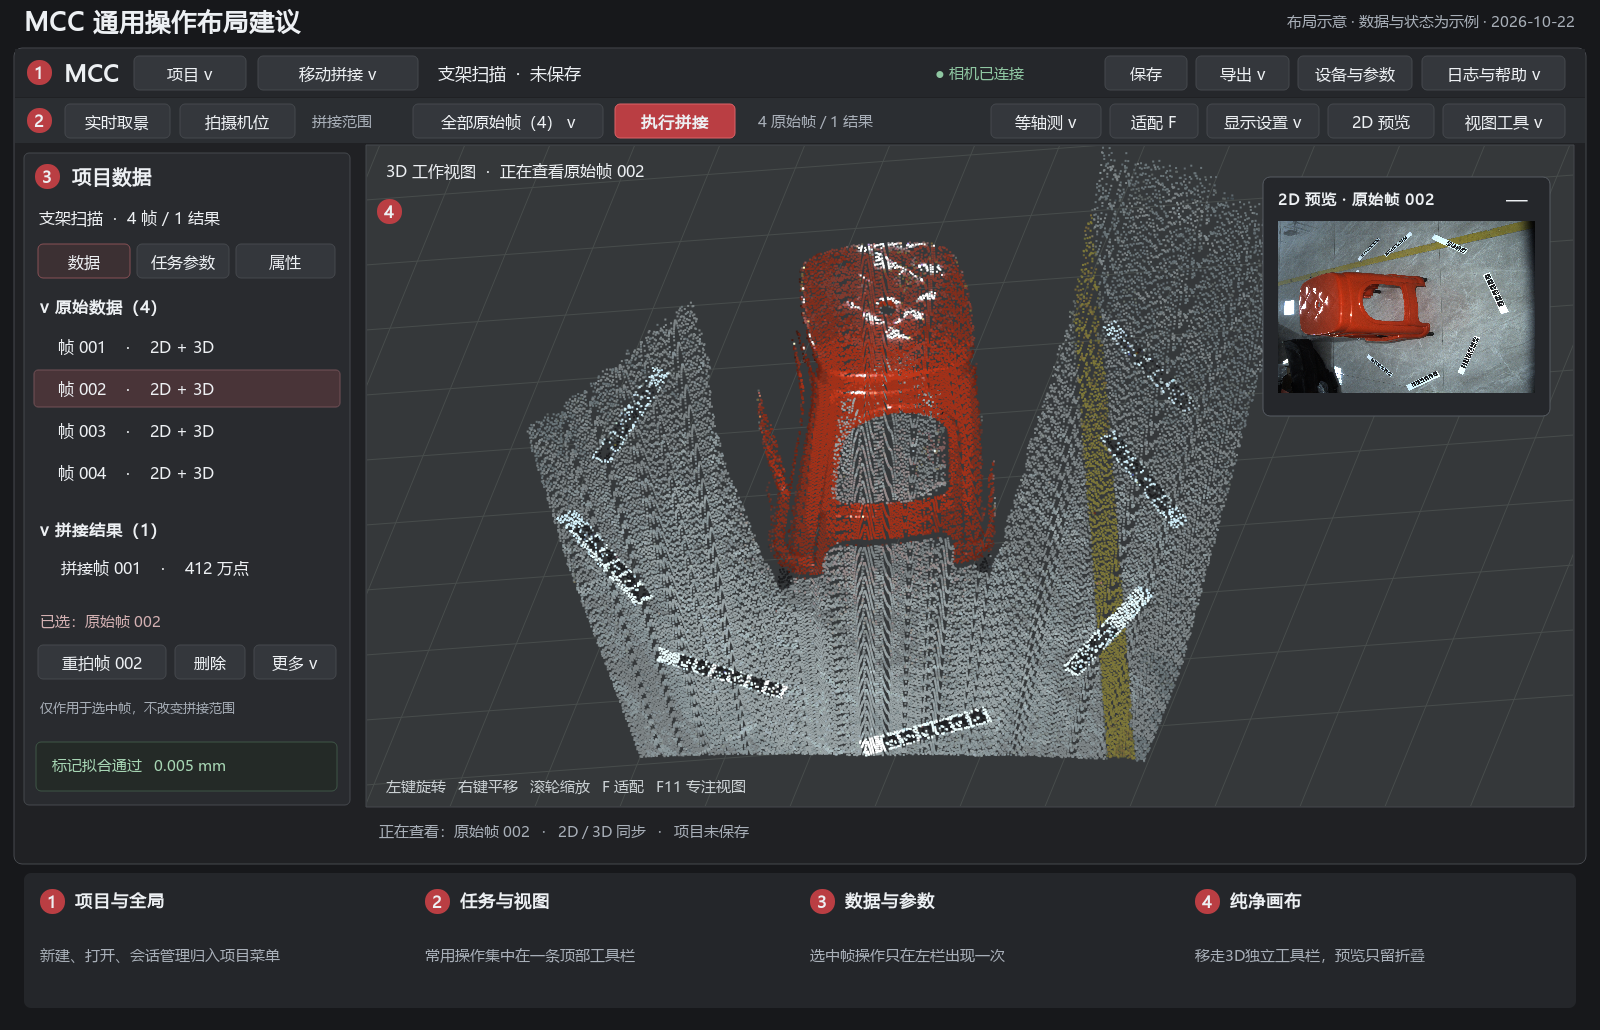
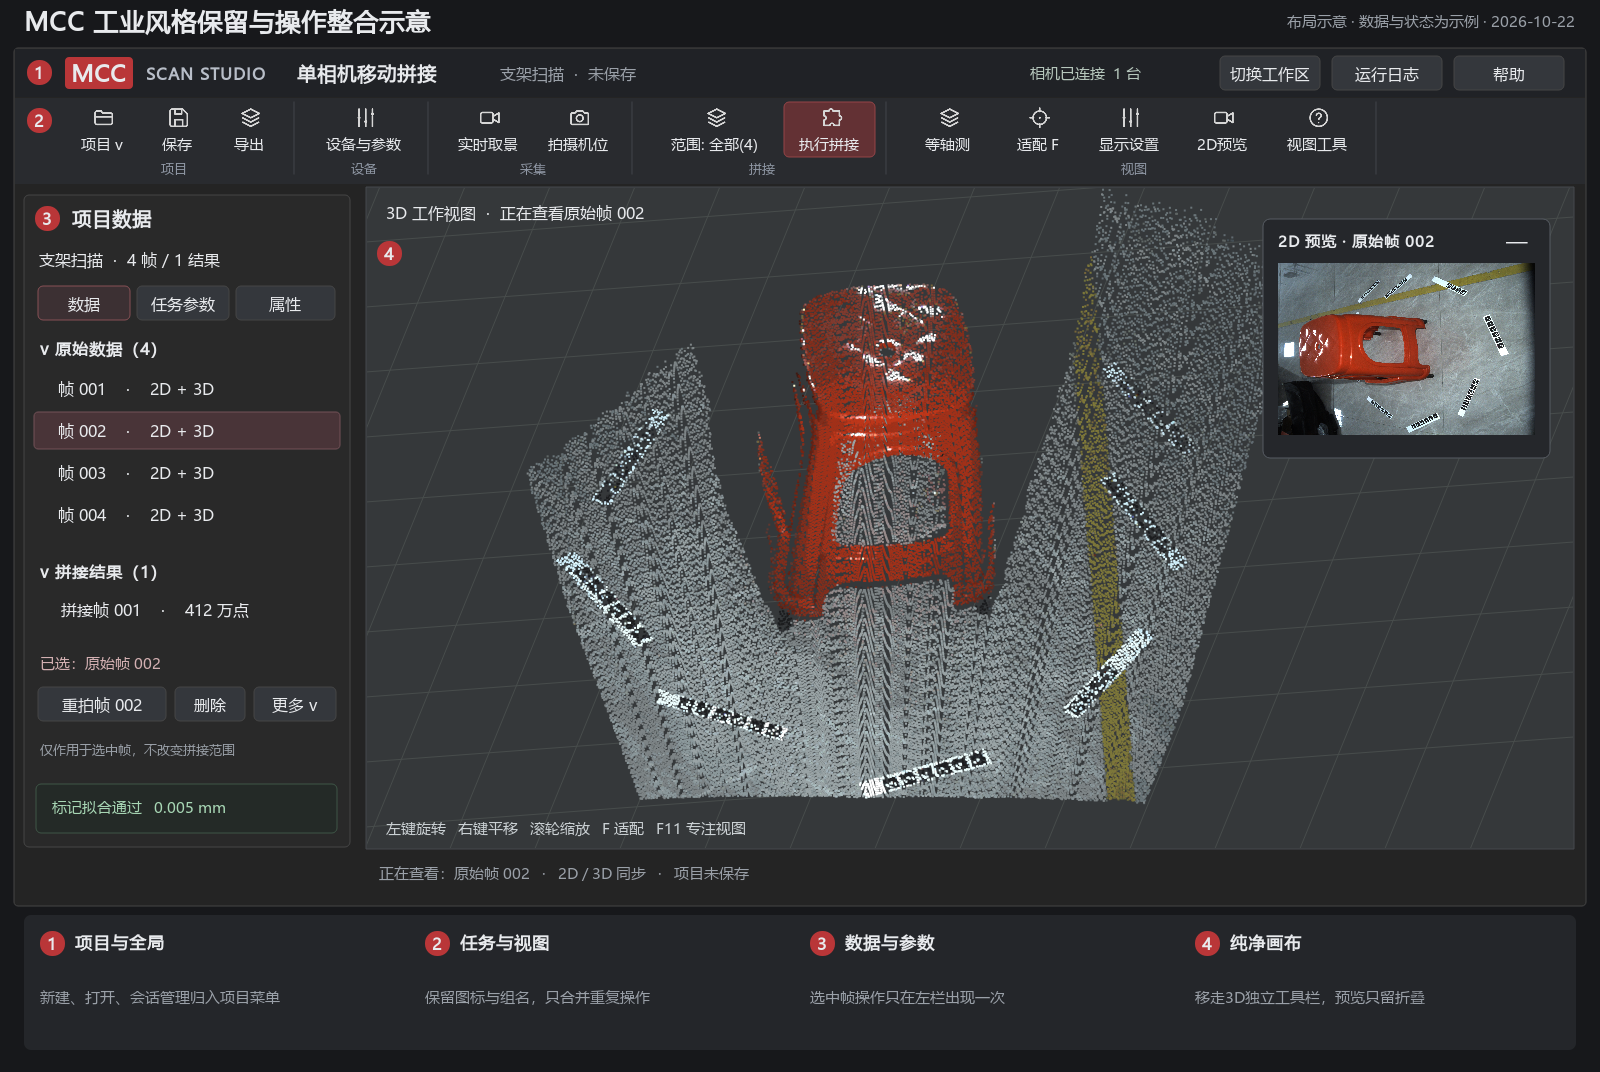
docs: retain existing industrial ribbon styling in UI proposal

diff --git a/docs/ui_review/20261022-ui-simplification/build_diagrams.py b/docs/ui_review/20261022-ui-simplification/build_diagrams.py
@@ -1,5 +1,6 @@
 """Render proposal diagrams only. Does not launch or modify production UI."""
 import os
+import sys
 from pathlib import Path
 
 os.environ.setdefault('QT_QPA_PLATFORM', 'offscreen')
@@ -10,9 +11,11 @@ from PySide6.QtWidgets import QApplication
 
 OUT = Path(__file__).resolve().parent
 PROJECT = OUT.parents[2]
+sys.path.insert(0, str(PROJECT / 'src'))
+from ui_v2 import icons
 app = QApplication.instance() or QApplication([])
 QFontDatabase.addApplicationFont('C:/Windows/Fonts/msyh.ttc')
-BG, PANEL, BORDER, TEXT, MUTED, RED = '#202124', '#292b2f', '#45484d', '#edf0f3', '#a8afb8', '#ba3e43'
+BG, PANEL, BORDER, TEXT, MUTED, RED = '#242424', '#292929', '#454545', '#e8eaed', '#9aa0a8', '#b93638'
 
 
 def box(p, x, y, w, h, color=PANEL, border=BORDER, radius=6):
@@ -72,32 +75,49 @@ def cloud(p):
     text(p, 386, 774, 900, 24, '左键旋转   右键平移   滚轮缩放   F 适配   F11 专注视图', 11, '#cad0d3')
 
 
+def ribbon_group(p, x, y, caption, entries):
+    begin = x
+    for label, glyph, width in entries:
+        primary = label in ('执行拼接', '计算外参', '计算转轴')
+        if primary:
+            box(p, x, y, width-4, 55, '#633134', '#954447', 5)
+        icon = icons.pixmap(glyph, '#d6d6d6', 23)
+        p.drawPixmap(int(x+(width-23)/2), int(y+4), icon)
+        text(p, x, y+30, width-4, 23, label, 11, align=Qt.AlignCenter)
+        x += width
+    text(p, begin, y+57, x-begin-4, 19, caption, 10, '#8f97a4', align=Qt.AlignCenter)
+    p.setPen(QPen(QColor('#41444a'),1))
+    p.drawLine(QPointF(x+7,y),QPointF(x+7,y+72))
+    return x+24
+
+
 def overview():
-    image = QImage(1600, 1030, QImage.Format_ARGB32)
+    image = QImage(1600, 1072, QImage.Format_ARGB32)
     image.fill(QColor('#17181b'))
     p=QPainter(image);p.setRenderHint(QPainter.Antialiasing)
-    text(p, 24, 4, 1050, 34, 'MCC 通用操作布局建议', 19, bold=True)
+    text(p, 24, 4, 1050, 34, 'MCC 工业风格保留与操作整合示意', 19, bold=True)
     text(p, 1070, 4, 505, 34, '布局示意 · 数据与状态为示例 · 2026-10-22', 11, MUTED, align=Qt.AlignRight|Qt.AlignVCenter)
-    box(p, 14, 48, 1572, 816, BG, BORDER, 8)
-    box(p, 15, 49, 1570, 48, '#25272b', None, 0)
+    box(p, 14, 48, 1572, 858, BG, BORDER, 4)
+    box(p, 15, 49, 1570, 48, '#202226', None, 0)
     badge(p, 27, 60, 1)
-    text(p, 64, 56, 62, 33, 'MCC', 17, bold=True)
-    button(p, 134, 56, 112, '项目 ▾')
-    button(p, 258, 56, 160, '移动拼接 ▾')
-    text(p, 438, 56, 480, 34, '支架扫描  ·  未保存', 13)
-    text(p, 935, 56, 155, 34, '● 相机已连接', 11, '#8fc7a2')
-    for x,w,label in ((1105,82,'保存'),(1196,93,'导出 ▾'),(1298,114,'设备与参数'),(1422,143,'日志与帮助 ▾')):
-        button(p,x,56,w,label)
-    box(p, 15, 98, 1570, 45, '#2b2e32', None, 0)
+    box(p, 65, 57, 68, 32, '#b93638', None, 4)
+    text(p, 65, 57, 68, 32, 'MCC', 17, bold=True, align=Qt.AlignCenter)
+    text(p, 146, 56, 133, 34, 'SCAN STUDIO', 12, '#b8bec8', True)
+    text(p, 297, 56, 180, 34, '单相机移动拼接', 14, bold=True)
+    text(p, 500, 56, 405, 34, '支架扫描  ·  未保存', 12, MUTED)
+    text(p, 1030, 56, 160, 34, '相机已连接  1 台', 11, '#b6c7bc')
+    button(p, 1220, 56, 100, '切换工作区')
+    button(p, 1332, 56, 110, '运行日志')
+    button(p, 1454, 56, 110, '帮助')
+    box(p, 15, 98, 1570, 86, '#292b2f', None, 0)
     badge(p,27,108,2)
-    button(p, 65,104,105,'实时取景')
-    button(p,180,104,115,'拍摄机位')
-    text(p,312,104,105,34,'拼接范围',11,MUTED)
-    button(p,413,104,190,'全部原始帧（4） ▾')
-    button(p,615,104,120,'执行拼接',primary=True)
-    text(p,758,104,175,34,'4 原始帧 / 1 结果',11,MUTED)
-    for x,w,label in ((991,110,'等轴测 ▾'),(1110,88,'适配 F'),(1207,112,'显示设置 ▾'),(1328,106,'2D 预览'),(1443,122,'视图工具 ▾')):
-        button(p,x,104,w,label)
+    x=ribbon_group(p,65,102,'项目',[('项目 v','folder_open',78),('保存','save',72),('导出','layers',72)])
+    x=ribbon_group(p,x,102,'设备',[('设备与参数','sliders',110)])
+    x=ribbon_group(p,x,102,'采集',[('实时取景','video',90),('拍摄机位','camera',90)])
+    x=ribbon_group(p,x,102,'拼接',[('范围: 全部(4)','layers',135),('执行拼接','stitch',95)])
+    ribbon_group(p,x,102,'视图',[('等轴测','layers',94),('适配 F','reset_view',86),('显示设置','sliders',96),('2D预览','video',90),('视图工具','help',100)])
+    p.save()
+    p.translate(0,42)
     box(p, 24,153,326,652,PANEL,BORDER,5)
     badge(p,35,164,3)
     text(p,72,161,235,31,'项目数据',14,bold=True)
@@ -130,18 +150,19 @@ def overview():
     if not source.isNull():p.drawImage(QRectF(1278,221,257,172),source)
     text(p,379,816,1080,30,'正在查看：原始帧 002   ·   2D / 3D 同步   ·   项目未保存',11,MUTED)
     box(p,24,873,1552,135,'#24262a',None,7)
-    items=[(1,'项目与全局','新建、打开、会话管理归入项目菜单'),(2,'任务与视图','常用操作集中在一条顶部工具栏'),(3,'数据与参数','选中帧操作只在左栏出现一次'),(4,'纯净画布','移走3D独立工具栏，预览只留折叠')]
+    items=[(1,'项目与全局','新建、打开、会话管理归入项目菜单'),(2,'任务与视图','保留图标与组名，只合并重复操作'),(3,'数据与参数','选中帧操作只在左栏出现一次'),(4,'纯净画布','移走3D独立工具栏，预览只留折叠')]
     for index,(number,title,detail) in enumerate(items):
         x=40+index*385;badge(p,x,889,number)
         text(p,x+35,884,326,31,title,13,bold=True)
         text(p,x,931,365,47,detail,11,MUTED)
+    p.restore()
     p.end();assert image.save(str(OUT/'layout-overview.png'))
 
 
 def modes():
     image=QImage(1600,470,QImage.Format_ARGB32);image.fill(QColor('#1b1d20'))
     p=QPainter(image);p.setRenderHint(QPainter.Antialiasing)
-    text(p,25,12,1500,38,'三个模式保持相同布局，只替换任务区内容',19,bold=True)
+    text(p,25,12,1500,38,'保留原工业功能区样式，只替换各模式任务组',19,bold=True)
     specs=[('多相机标定','拍摄标定帧','检测标记','计算外参','参考相机 / 标记类型 / 标定结果'),
            ('移动拼接','实时取景','拍摄机位','执行拼接','拼接范围 / 选中帧重拍与删除'),
            ('转台拼接','拍摄基准帧','拍摄旋转帧','计算转轴','转角 / 步长 / 步数 / 轴心参数')]
@@ -150,9 +171,9 @@ def modes():
         box(p,24,y,1550,102,PANEL,BORDER,6)
         text(p,43,y+12,180,37,name,14,bold=True)
         for j,label in enumerate((a,b,c)):
-            button(p,235+j*155,y+12,142,label,primary=j==2)
+            ribbon_group(p,235+j*155,y+7,'',[(label,('video' if '取景' in label else 'stitch' if j==2 else 'camera'),142)])
         text(p,735,y+12,780,37,'共用视图区：视角 / 适配 / 显示设置 / 2D / 视图工具',12,MUTED)
-        text(p,236,y+57,1240,31,'左栏任务参数：'+detail,11,MUTED)
+        text(p,236,y+69,1240,24,'左栏任务参数：'+detail,11,MUTED)
     text(p,25,432,1540,25,'注：多相机与转台的工具条随“标定 / 扫描”阶段切换；未满足条件时给出禁用原因。',11,MUTED)
     p.end();assert image.save(str(OUT/'mode-task-bars.png'))
 

diff --git a/docs/UI通用操作整合与简化建议_20261022.md b/docs/UI通用操作整合与简化建议_20261022.md
@@ -2,7 +2,17 @@
 
 日期：2026-10-22。核对基线：`MultiCameraCalibration` 分支、提交 `7b7b03c`、版本 `1.12.39`，以及当前工作区代码。本文件是设计建议，不表示正式 UI 已修改或相关能力已经实现。
 
-建议采用固定的“顶部全局区 + 顶部任务与视图区 + 左侧数据与参数 + 中央画布”布局。减少同时出现的操作位置，比单纯缩小按钮更有效。高频任务直接显示，低频设置放入有清晰名称的菜单，选中数据的操作集中在左侧。
+根据用户补充要求，本方案必须保留现有工业风格。采用“原品牌状态头 + 原工业分组功能区 + 左侧数据与参数 + 中央画布”，仅优化操作位置、分组和逻辑。高频任务直接显示，低频设置放入有清晰名称的菜单，选中数据的操作集中在左侧。
+
+### 设计保留约束
+
+- 保留MCC红色标识、SCAN STUDIO品牌头、深灰底色、灰白线性图标与品牌红主操作，不改成另一套产品视觉。
+- 顶部继续采用现有“图标在上、文字在下、组名在底部、竖线分组”的工业功能区。项目、设备、采集、拼接、视图的顺序及视觉语言保持熟悉，只归并冗余入口。
+- 保留现有按钮边框、约4～5px小圆角、字体和密度；不使用上一版示意中的整排纯文字按钮替换工业图标功能区，不引入大圆角胶囊和大面积装饰卡片。
+- 配色沿用 `industrial_ribbon.py`：品牌标识 `#b93638`、头部 `#202226`、功能区 `#292b2f`、主操作底色 `#633134`。实际实施复用原样式，不能根据示意图再写另一套近似主题。
+- 左侧DB树、深灰3D场景和右上角可折叠2D预览继续保留。图中外部编号与说明仅用于讲解，不进入正式UI。
+
+本轮优化是原工业界面的整理，不是风格重设计。以下迁移建议均服从上述约束。
 
 ## 一 布局示意
 
@@ -47,17 +57,17 @@
 
 | 分区 | 放什么 | 不放什么 |
 |---|---|---|
-| 顶部第一行，全局区 | 项目菜单、工作区选择、项目名/未保存状态、保存、导出、设备与参数、日志与帮助 | 每帧重拍/删除、点大小、标定细节 |
-| 顶部第二行，任务与视图区 | 左半为当前模式和阶段的高频任务、显式拼接范围；右半为视角、适配、显示设置、2D开关、视图工具 | 大批标定参数、磁盘清理、会话列表 |
+| 顶部第一行，原品牌状态头 | MCC标识、SCAN STUDIO、当前工作区、项目名/未保存状态、连接状态、切换工作区、日志、帮助 | 大量业务按钮、每帧重拍/删除、点大小 |
+| 顶部第二行，原工业分组功能区 | 按项目、设备、采集、拼接、视图分组；保留图标文字按钮与底部组名，显示当前模式任务及明确的拼接范围 | 大批标定参数、磁盘清理、会话列表、另一套纯文字导航条 |
 | 左侧，数据与参数区 | 项目树、原始帧/标定数据/结果、数据/任务参数/属性页、选中数据操作、精简质量信息 | 另一套项目打开/保存按钮、与顶部重复的执行拼接 |
 | 中央，3D画布 | 点云、必要标注、当前查看对象；保留可折叠2D预览 | 独立整排3D工具栏、重复任务操作、常驻大段操作说明 |
 | 底部，统一状态条 | 当前任务/失败原因、查看对象、一次简短质量摘要；日志按需展开 | 另起一套任务控制按钮、同一指标的重复长文本 |
 
-第一行保存全局项目，第二行执行当前任务，左侧操作当前数据。这样位置和作用对象形成稳定对应关系。菜单与快捷键可以保留同一动作的访问方式，但默认画面中不再多处常驻相同按钮。
+品牌头显示当前状态，工业功能区执行项目与任务操作，左侧操作当前数据。这样位置和作用对象形成稳定对应关系。菜单与快捷键可以保留同一动作的访问方式，但默认画面中不再多处常驻相同按钮。
 
 ### 空间建议
 
-- 以1600×1000为示意：全局区约48px、任务区约44px、状态区约28px，左栏约300～340px，可拖动调宽。
+- 以1600×1000为示意：保留约48～52px品牌头和约80～86px工业功能区，状态区约28px，左栏约300～340px，可拖动调宽。不能为了省高度把现有图标功能区改成44px纯文字条。
 - 1366×768优先缩短项目标题、把低频动作移入具名菜单；左栏内部滚动。不能靠减小字号、压扁输入框或覆盖DB底部按钮来适配。
 - 窄窗口先收起2D预览内容，保留“2D预览”顶部开关；视图菜单仍可打开预览。不能把采集/停止和质量失败原因挤出窗口。
 - “专注视图”只临时隐藏左栏及预览，不改变任务、选择和数据；退出恢复原尺寸。建议采用F11，避免与当前F/Z适配冲突。
